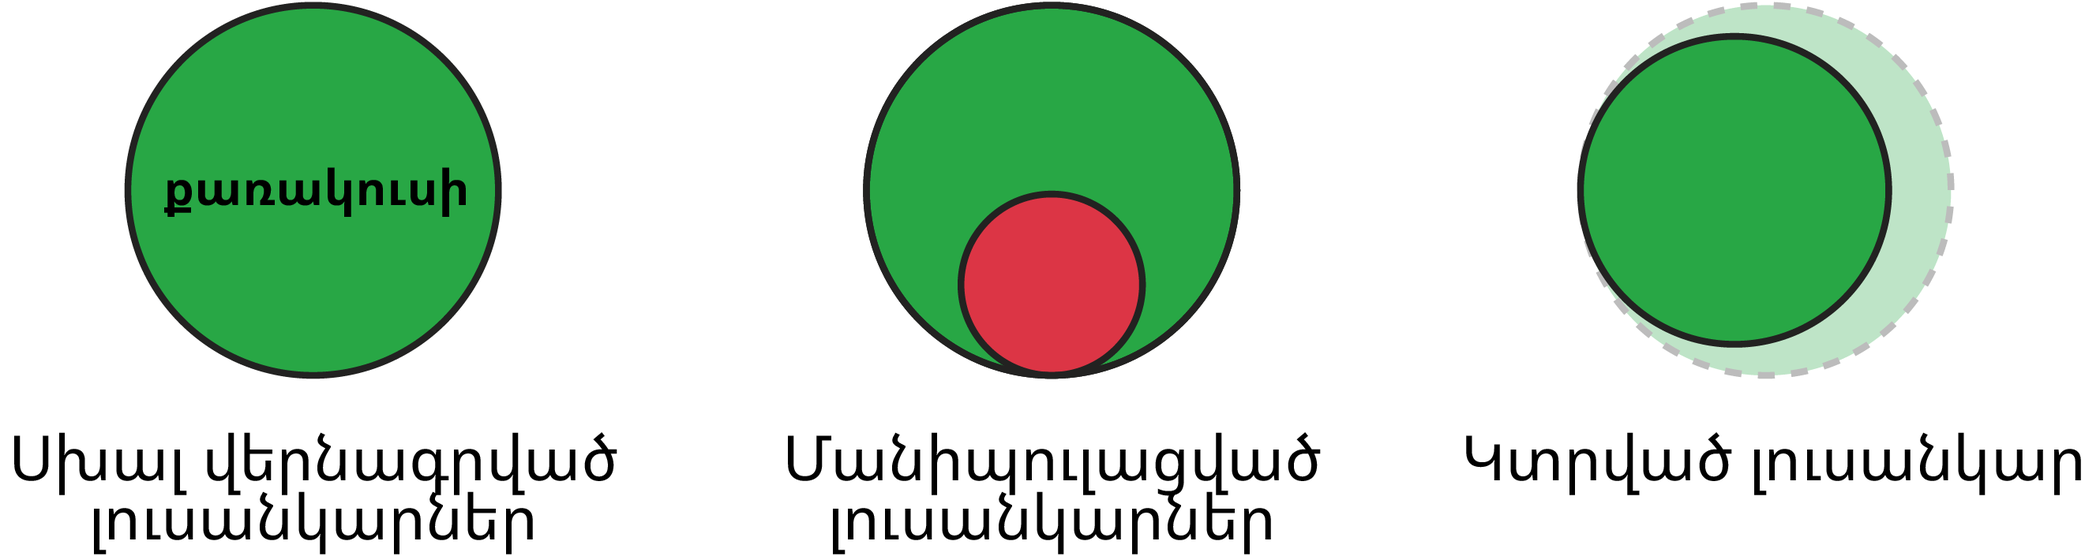
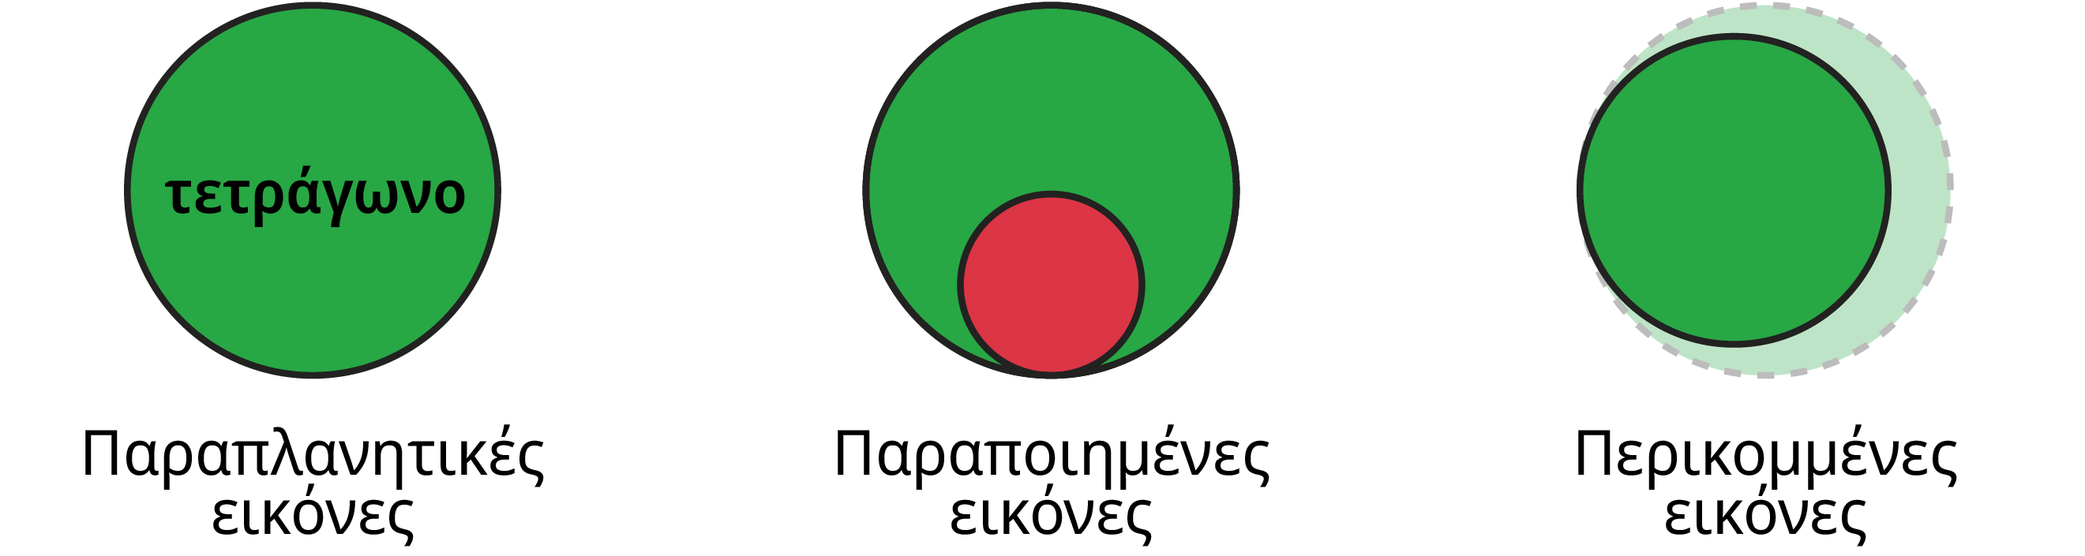
About ok

diff --git a/about.html b/about.html
@@ -2610,96 +2610,95 @@
               </br></br>
               Η παραπληροφόρηση (misinformation) συμβαίνει όταν διαμοιράζονται ψευδείς πληροφορίες εν αγνοία του χρήστη.
               Η αποπληροφόρηση (disinformation) αφορά ψευδείς πληροφορίες που δημιουργούνται και διαμοιράζονται επίτηδες, με στόχο τη χειραγώγηση των ανθρώπων.
-              Ο όρος «ψεύτικο» δεν αντικατοπτρίζει την πολυπλοκότητα αυτών των δύο όρων. 
+              Ο όρος «ψεύτικο» δεν αντικατοπτρίζει την πολυπλοκότητα αυτών των δύο όρων.
               Για να κατανοήσουμε τι συμβαίνει, πρέπει να αναλύσουμε τρεις τύπους παραπληροφόρησης και αποπληροφόρησης:
               </br></br>
               <img class="img img-fluid" src="./assets/IconeManipulation.png" />
-              <span style="font-family: var(--font-bold)">Սխալ վերնագրված լուսանկաներ</span> — իրական լուսանկարներ, որոնք սխալ են նկարագրում կոնտեքստը, դրա ծագումը կամ նշանակությունը:</br></br>
-              <span style="font-family: var(--font-bold)">Փոփոխված լուսանկարներ</span> — հիմնական տարրերը ճիշտ են, սակայն որոշ դետալներ ավելացված են կամ հեռացված՝ նկարի նշանակությունը փոխելու համար:</br></br>
-              <span style="font-family: var(--font-bold)">Կտրված լուսանկարներ</span> — երբ նկարը եզրերից կտված է, որի նպատակն է փոխել դրա սկզբնական նշանակությունը և իրական կոնտեքստը:</p>
+              <span style="font-family: var(--font-bold)">Παραπλανητικές εικόνες</span> — Πραγματικές αλλά παραπλανητικές εικόνες με κείμενα που περιγράφουν ψευδώς το πλαίσιο, την προέλευση ή το νόημά τους.</br></br>
+              <span style="font-family: var(--font-bold)">Παραποιημένες εικόνες</span> — Τα πρωταρχικά στοιχεία είναι αληθή, αλλά έχουν προστεθεί ή διαγραφεί ορισμένες λεπτομέρειες προκειμένου να αλλάξει το νόημα μιας εικόνας.</br></br>
+              <span style="font-family: var(--font-bold)">Περικομμένες εικόνες</span> — Εικόνες που έχουν περικοπεί για να αλλάξουν το αρχικό τους νόημα και το πραγματικό τους πλαίσιο.</p>
 
-            <h1 id="maintopics" class="card-title">ԳԼԽԱՎՈՐ ԹԵՄԱՆԵՐ</h1>
-            <h2 class="subtitle">Ինչպե՞ս ենք մենք ընկալում վիզուալ տեղեկատվությունը համացանցում</h2>
+            <h1 id="maintopics" class="card-title">ΚΥΡΙΑ ΘΕΜΑΤΑ</h1>
+            <h2 class="subtitle">Πώς αντιλαμβανόμαστε τις διαδικτυακές οπτικές πληροφορίες;</h2>
             <p class="card-text"><img class="img img-fluid topicsmall" src="./assets/fonteverificata.gif" />
             </br>
-              Արդյոք մենք հավատում ենք համացանցում տարածված տեղեկատվությանը, թե ոչ՝ մասամբ կախված է նրանից, թե ինչպես ենք մենք այն ընկալում: Ժամանակ և ջանքեր խնայելու համար մենք մշակում ենք փաստերը սոցիալական բանալիների հիման վրա: Հեղինակությունը, սպասելիքները, ով է տարածել հրապարակումը և որքան հավանումներ այն ունի, ազդում են այն բանի վրա, թե ինչպես ենք մենք գնահատում տեղեկատվությունը:
+              Το αν πιστεύουμε ή όχι τις πληροφορίες που συναντάμε στο διαδίκτυο εξαρτάται εν μέρει από την δική μας οπτική γωνία. Προκειμένου να εξοικονομήσουμε χρόνο και προσπάθεια, επεξεργαζόμαστε γεγονότα με βάση τις κοινωνικές ενδείξεις. Πράγματα όπως η φήμη, οι προσδοκίες, το ποιος μοιράστηκε μια ανάρτηση και ο αριθμός των likes που έχει, όλα επηρεάζουν τον τρόπο με τον οποίο αξιολογούμε τις πληροφορίες.
             </br>
               <img class="img img-fluid topicbig" src="./assets/intermediares.gif" />
             </br>
-              Ով և որտեղ է հրապարակել տեղեկատությունը. սրանք այն առանցքային գործոններն են, որոնք ազդում են բովանդակության նկատմամբ վստահության վրա: Մարդիկ հակված են մտածել, որ լրատվական կազմակերպությունները ավելի մեծ վստահություն են վայելում, քան մարդիկ, որոնք հրապարակում են այդ տեղեկատվությունը սոցցանցերում: Բացի այդ, մենք հակված ենք հավատալու տեղեկատվությանը, եթե դրան ուրիշներն էլ են հավատացել:
+              Το ποιος δημοσίευσε τις πληροφορίες, και το πού, είναι και οι δύο βασικοί παράγοντες που επηρεάζουν το αν το περιεχόμενο μπορεί να είναι αξιόπιστο. Για παράδειγμα, οι άνθρωποι τείνουν να υποθέτουν ότι οι ειδησεογραφικοί οργανισμοί είναι πιο αξιόπιστοι από τα μεμονωμένα άτομα που μοιράζονται πράγματα στα μέσα κοινωνικής δικτύωσης. Επιπλέον, οι άνθρωποι τείνουν να πιστεύουν τις πληροφορίες αν το πιστεύουν και άλλοι.
             </br>
               <img class="img img-fluid topicsmall" src="./assets/fomo.gif" />
             </br>
-              Բաց թողնված շահի ախտանիշը <span style="font-family: var(--font-regularD)">(FOMO)</span> և այսպես կոչված «հաղթողի էֆեկտը» կարող են մարդկանց ստիպել մտածել. «Եթե մյուսներին դա դուր է գալիս, պետք է որ ինձ էլ դուր գա»: Դա կարող է հանգեցնել նրան, որ մարդիկ կկիսվեն տեղեկատվությամբ՝ ուշադրություն չդարձնելով դրա բովանդակության և այն բանի վրա, թե արդյոք կարելի է դրան վստահել:
+              Ο «φόβος για τα γεγονότα που χάνω» (Fear of missing out) και το λεγόμενο «φαινόμενο bandwagon» μπορεί να κάνει τους ανθρώπους να σκεφτούν, «Αν αρέσει σε άλλους ανθρώπους, τότε θα πρέπει να αρέσει και σε εμένα». Αυτό μπορεί να οδηγήσει τους ανθρώπους να μοιράζονται πληροφορίες χωρίς να δίνουν προσοχή στο περί τίνος πρόκειται ή στο κατά πόσον μπορούν να εμπιστευτούν.
             </br>
               <img class="img img-fluid topic" src="./assets/labirinto.gif" />
             </br>
-              «Թվային մեդիագրագիտությունը» նշանակում է ցանցում տեղեկատվության առանձնահատկությունները հասկանալու կարողություն, օրինակ, ով է այն ստեղծել, և ով է այն տարածում, միաժամանակ, օգտագործել այդ գիտելիքները՝ որոշելու՝ արդյոք արժե դրան հավատալ: Թվային մեդիայի ոլորտում գրագիտության ասպեկտներից է նաև այն, թե որքանով եք կարողանում տարբերել խմբագրված և փոփոխությունների ենթարկված լուսանկարները:
+              "Ψηφιακή παιδεία στα μέσα" σημαίνει να είναι κανείς σε θέση να αναγνωρίζει τα χαρακτηριστικά των διαδικτυακών πληροφοριών, όπως ποιος τις δημιούργησε και από ποιον μποράζονται, και να χρησιμοποιεί αυτή τη γνώση για να αποφασίζει αν οι πληροφορίες είναι αξιόπιστες. Η κατανόηση του τρόπου επεξεργασίας ψηφιακών φωτογραφιών και βίντεο αποτελεί επίσης μια πτυχή της «ψηφιακής παιδείας στα μέσα».
             </br>
               <img class="img img-fluid topicsmall" src="./assets/bias.gif" /></br>
-              Տարբեր հարցերի վերաբերյալ մեր վերաբերմունքը նույնպես դեր ունի: Մարդիկ, ամենայն հավանականությամբ, հավատում են, որ տեղեկատվությունը ճշմարիտ է, եթե այն հաստատում է այն, ինչ նրանք արդեն հավատում են, հատկապես քաղաքականության կամ ընթացիկ գործերի համատեքստում:
+              Η στάση μας για διάφορα θέματα έχει επίσης σημασία. Οι άνθρωποι είναι πιο πιθανό να πιστεύουν ότι οι πληροφορίες είναι αληθινές, εάν οι πληροφορίες επιβεβαιώνουν αυτό που ήδη πιστεύουν, ειδικά στο πλαίσιο της πολιτικής ή θεμάτων που σχετίζονται με την επικαιρότητα.
             </p>
 
-            <h1 id="goal" class="card-title">ՀԻՄՆԱԿԱՆ ՆՊԱՏԱԿԸ</h1>
-            <h2 class="subtitle">Ինչպես նվազեցնել վիզուալ խաբկանքի պոտենցիալ վնասը</h2>
+            <h1 id="goal" class="card-title">ΠΟΙΟΣ ΕΙΝΑΙ Ο ΣΤΟΧΟΣ</h1>
+            <h2 class="subtitle">Πώς να μειώσετε την πιθανή ζημιά από τις οπτικές φάρσες</h2>
             <p class="card-text">
-              «Կրկնակի ստուգում» խաղի գլխավոր խնդիրն է մարդկանց ցույց տալ, թե որքան բարդ է ճանաչել՝ արդյոք լուսանկարը վստահության արժանի է, թե ոչ: Բացի այդ, այդ նախագիծը ցույց է տալիս, թե ինչու յուրաքանչյուր լուսանկար պետք է նայել բովանդակության և կոնտեքստի տեսանկյունից: Եթե մարդիկ ցանցում անուշադիր են, նրանք կարող են տարածել կեղծ տեղեկատվություն և ապատեղեկատվություն՝ անգամ անկախ իրենց ցանկությունից:
+              Ο κύριος σκοπός του κουίζ «διπλού ελέγχου» είναι να δείξει στους ανθρώπους πόσο δύσκολο είναι να αναγνωρίσουν αν μια εικόνα είναι αξιόπιστη ή όχι. Επιπλέον, αυτό το έργο δείχνει γιατί κάθε εικόνα πρέπει να εξετάζεται ως προς το περιεχόμενο της και το πλαίσιο της. Εάν οι άνθρωποι δεν δώσουν προσοχή στο διαδίκτυο, θα μπορούσαν εν αγνοία τους να διαδώσουν την παραπληροφόρηση (misinformation) και την αποπληροφόρηση (disinformation).
             </br></br>
-              Մենք բոլորս կարևոր դեր են խաղում վիզուալ տեղեկատվության համակարգում: Ամեն անգամ, երբ մենք պասսիվ ընդունում ենք տեղեկատվությունը, օրինակ, կիսվում ենք ինչ-որ հրապարակմամբ կամ տեսանյութուվ՝ չստուգելով այն կամ կասկածի տակ չդնելով, մենք մեծ հավանականությամբ կարող ենք տարածել այնպիսի կոնտենտ, որը չի համապատասխանում իրականությանը կամ մոլորության մեջ է գցում:
+              Όλοι διαδραματίζουμε κρίσιμο ρόλο στο σύστημα οπτικής πληροφόρησης. Κάθε φορά που αποδεχόμαστε παθητικά πληροφορίες —για παράδειγμα κοινοποιώντας μια ανάρτηση, εικόνα ή βίντεο χωρίς να την ελέγξουμε ή να την αμφισβητήσουμε— διατρέχουμε τον κίνδυνο να μεταδώσουμε περιεχόμενο που είναι αναληθές ή παραπλανητικό.
             </br></br>
-              Մեզնից յուրաքանչյուրը պարտավոր է ստուգել այն, ինչ տեսնում է համացանցում: «Կրկնակի ստուգում» խաղը ենթադրում է, որ կրթության մեջ ներդրում կատարելը լավագույն միջոցն է թվային մեդիագրագիտությունը բարձրացնելու և սխալ տեղեկատվության կամ ապատեղեկատվության հասցրած վնասը նվազեցնելու համար:
+              Καθένας από εμάς έχει την ευθύνη να ελέγχει τι βλέπει στο διαδίκτυο. Το παιχνίδι «διπλού ελέγχου» υποδηλώνει ότι η επένδυση στην εκπαίδευση είναι ο καλύτερος τρόπος για να καλλιεργηθεί περεταίρω η παιδεία σχετικά με τα ψηφιακά μέσα και να μειωθεί η ζημιά που προκαλείται από την παραπληροφόρηση (misinformation) κα την αποπληροφόρηση (disinformation).
             </br></br>
-              Այդ հաղորդագրությունը փոխանցելու համար կիրառվել է խաղաֆիկացում (խաղային մոտեցման կիրառում՝ ոչ խաղային խնդիրներում մարդկանց ներգրավելու համար): Անցնելով թեստը՝ մարդիկ կարող են ստուգել իրենց հմտությունները և խորանալ թեմայի մեջ:
+              Η παιχνιδοποίηση — χρησιμοποιώντας προσεγγίσεις τύπου παιχνιδιού για να ενθαρρύνει τους ανθρώπους να ασχοληθούν με ζητήματα που δεν αφορούν παιχνίδια — χρησιμοποιείται εδώ για τη μετάδοση αυτού του μηνύματος. Παίρνοντας μέρος στο κουίζ, οι άνθρωποι μπορούν να δοκιμάσουν τις ικανότητές τους και να κατανοήσουν ενεργά την πολυπλοκότητα του θέματος.
             </p>
 
-            <h1 id="starterpack" class="card-title">ՍԿՍՆԱԿՆԵՐԻ ՀԱՄԱՐ</h1>
-            <h2 class="subtitle">Օգտակար գործիքներ՝ վիզուալ խաբկանքի դեմ պայքարելու համար</h2>
-            <h2 class="subtitlemiddle">Տվյալներ</h2>
+            <h1 id="starterpack" class="card-title">ΣΥΣΚΕΥΑΣΙΑ ΕΚΚΙΝΗΣΗΣ</h1>
+            <h2 class="subtitle">Χρήσιμα εργαλεία για την αντιμετώπιση οπτικών φαρσών (απατών).</h2>
+            <h2 class="subtitlemiddle">Δεδομένα</h2>
             <p class="card-text">
-              Վիզուալ սխալ տեղեկատվությունը և ապատեղեկատվությունը համացանցում զարգանում են սոցիալական ցանցերին զուգընթաց:
-              Այժմ շատ երիտասարդներ և մեծահասակներ այդ ալիքներն օգտագործում են որպես տեղեկատվության միակ աղբյուր, ինչը նպաստում է սխալ տեղեկատվության և ապատեղեկատվության տարածմանը:
-              Մշակման առաջին փուլում մենք ուսումնասիրել են՝ ինչ հարթակներ են առավել տարածված աշխարհի տարբեր մասերում:
-              Եթե դուք ցանկանում եք ավելին իմանալ աշխարհի ամենաազդեցիկ սոցցանցերի մասին, մուտք գործեք մեր կայք.
+              Η διαδικτυακή οπτική παραπληροφόρηση (misinformation) και αποπληροφόρηση (disinformation) έχει αναπτυχθεί παράλληλα με τα μέσα κοινωνικής δικτύωσης.
+              Σήμερα, πολλοί νέοι και ενήλικες χρησιμοποιούν αυτά τα κανάλια ως μοναδική πηγή ειδήσεων, γεγονός που βοηθά στη διάδοση της παραπληροφόρησης και της αποπληροφόρησης.
+              Κατά την πρώτη φάση της διαδικασίας σχεδιασμού, διερευνήσαμε ποιες πλατφόρμες χρησιμοποιούνται περισσότερο σε διάφορα μέρη του κόσμου.
+              Αν θέλετε να μάθετε περισσότερα για τα κοινωνικά δίκτυα με τη μεγαλύτερη επιρροή σε όλο τον κόσμο, επισκεφτείτε τον ιστότοπό μας:
               </br></br>
-              <a href="https://densitydesign.github.io/teaching-dd15/course-results/es01/group01/">Սոցիալական ցանցերը՝ ըստ մշակութային շրջանների</a>
+              <a href="https://densitydesign.github.io/teaching-dd15/course-results/es01/group01/">Κοινωνικά δίκτυα ανά πολιτιστική περιοχή</a>
               <img class="img img-fluid infografica" src="./assets/Infografica_Spilli.jpg" /></br></br>
-              Քաղաքականության և ընթացիկ իրադարձությունների մասին վիզուալ տեղեկատվությունը ավելի շուտ կանխակալության կասկած կառաջացնի.
-              սա այն դեպքն է, երբ մենք ավելի մեծ պատրաստակամությամբ ենք հավատում մի բանի, որը հաստատում է մեր կարծիքը:
-              Երբ խոսքը վերաբերում է համաշխարհային խոշոր իրադարձությունների, որոնց մասին շատերին է հայտնի, վիզուալ ապատեղեկատվությունն ավելի լայնորեն է տարածվում:
-              Դա ավելի լավ հասկանալու համար ծանոթացեք մեր հաջորդ նախագծին.
+              Οι οπτικές πληροφορίες σχετικά με την πολιτική επικαιρότητα  είναι πιο πιθανό να πυροδοτήσουν προκατάληψη επιβεβαίωσης - όταν δηλαδή πιστεύουμε κάτι πιο εύκολα επειδή υποστηρίζει τη γνώμη μας.
+              Όταν πρόκειται για μεγάλα, παγκόσμια γεγονότα για τα οποία πολλοί άνθρωποι γνωρίζουν, η οπτική παραπληροφόρηση γίνεται όλο και πιο διαδεδομένη.
+              Για να γίνει καλύτερα κατανοητό, δείτε το έργο μας για τις προεπισκοπήσεις:
               </br></br>
-              <a href="https://densitydesign.github.io/teaching-dd15/course-results/es02/group01/">Սեփական աչքերը լավագույն վկան են</a>
+              <a href="https://densitydesign.github.io/teaching-dd15/course-results/es02/group01/">Το να βλέπεις είναι να πιστεύεις</a>
               <img class="img img-fluid infografica" src="./assets/Cerchi_Totale.jpg" /></br>
-              <span class="dida"><span style="font-family: var(--font-regularD)">Google</span>-ում գտեք ֆեյք նկարներ վերջին <span style="font-family: var(--font-regularD)">6</span> տարիների իրադարձությունների վերաբերյալ և տեսեք՝ արդյոք դրանք հերքվել են և քանի անգամ: </span></p>
+              <span class="dida"> Αναζητήστε στο Google και δείτε αν μπορείτε να δείτε ποιες ψεύτικες εικόνες που σχετίζονται με γεγονότα των τελευταίων έξι ετών έχουν διαψευστεί και πόσες φορές. </span></p>
 
-            <h2 class="subtitlemiddle">Հաճախ տրվող հարցեր և խորհուրդներ</h2>
+            <h2 class="subtitlemiddle">Συχνές ερωτήσεις και συμβουλές</h2>
 
             <p class="card-text">
-              <span style="font-family: var(--font-bold)">— Ի՞նչ գործիք օգտագործել նկարի սկզբնաղբյուրը ստուգելու համար:</span></br>
-              <a href="https://support.google.com/websearch/answer/1325808?co=GENIE.Platform%3DAndroid&hl=en"><span style="font-family: var(--font-regularD)">Reverse Image Search</span></a> -
-              Նկարի հետադարձ որոնման գործիքը հնարավորություն է տալիս գտնել դրա հետ կապված կամ նման լուսանկարներ, ինչպես նաև վեբ կայքեր, որտեղ դրանք հրապարակվել են: Դուք կարող եք անցնել հղումներով և փնտրել սկզբնաղբյուրը:</br>
+              <span style="font-family: var(--font-bold)">— Ποιο είναι το πιο εύκολο εργαλείο για την επαλήθευση της αρχικής πηγής μιας εικόνας;</span></br>
+              Το εργαλείο <a href="https://support.google.com/websearch/answer/1325808?co=GENIE.Platform%3DAndroid&hl=en"><span style="font-family: var(--font-regularD)">Aντίστροφης Aναζήτησης εικόνων </span></a>
+              σάς επιτρέπει να χρησιμοποιήσετε μια εικόνα για να βρείτε σχετικές ή παρόμοιες εικόνες, και τους ιστότοπους όπου μπορούν να βρεθούν. Μπορείτε να ανοίξετε όλους τους πιθανούς συνδέσμους και να αναζητήσετε την αρχική πηγή.</br>
             </p></br>
 
             <p class="card-text">
-              <span style="font-family: var(--font-bold)">— Կա՞ այնպիսի կայք, որտեղ կարելի է գտնել վիզուալ սխալ տեղեկատվության և ապատեղեկատվության այլ օրինակներ:</span></br>
-              Այո՛, այս նախագծում առավել հաճախ օգտագործվում է <a href="https://www.snopes.com/"><span style="font-family: var(--font-regularD)">Snopes.com</span></a> կայքը, որն անկախ ռեսուրս է փաստերի ստուգման և հրապարակման համար:</br>
+              <span style="font-family: var(--font-bold)">— Υπάρχει κάποιος ιστότοπος όπου μπορώ να βρω άλλα παραδείγματα σχετικά με την οπτική παραπληροφόρηση (misinformation) και αποπληροφόρηση (disinformation);</span></br>
+              Ναι, ο ιστότοπος που χρησιμοποιείται περισσότερο για αυτό το έργο είναι το <a href="https://www.snopes.com/"><span style="font-family: var(--font-regularD)">Snopes.com</span></a> , μια ανεξάρτητη δημοσίευση και πηγή ελέγχου των γεγονότων.</br>
             </p></br>
 
             <p class="card-text">
-              <span style="font-family: var(--font-bold)">— Որտե՞ղ կարող եմ իմանալ վիզուալ ապատեղեկատվության և ապատեղեկատվության տարբեր տեսակների մասին:</span></br>
-              Եթե դուք ցանկանում եք խորանալ այդ թեմայի մեջ, կարդացեք Քլեր Վարդլի «Ֆեյք լուրեր. բարդ է» <a href="https://firstdraftnews.org/latest/fake-news-complicated/"><span style="font-family: var(--font-regularD)">"Fake news. It’s complicated"</span></a>.
-              հոդվածը: Դրանում հեղինակը դասակարգում է ֆեյք կոնտենտը, բացատրում՝ ինչու է այն ստեղծվում և տարածվում: </br>
+              <span style="font-family: var(--font-bold)">— Πού μπορώ να μάθω για τα διάφορα είδη οπτικής παραπληροφόρησης (misinformation) και αποπληροφόρησης (disinformation);</span></br>
+              Αν θέλετε να μάθετε περισσότερα σχετικά με αυτό το θέμα, μπορείτε να διαβάσετε το άρθρο <a href="https://firstdraftnews.org/latest/fake-news-complicated/"><span style="font-family: var(--font-regularD)">"Fake news. It’s complicated"</span></a>
+              από την Claire Wardle. Αυτό το άρθρο είναι μια ανάλυση των τύπων ψευδούς περιεχομένου, γιατί δημιουργείται και πώς διαδίδεται.</br>
             </p></br>
 
             <p class="card-text">
-              <span style="font-family: var(--font-bold)">— Արդյո՞ք կատարվել է հետազոտություն՝ պարզելու, թե որքանով է մարդը ունակ ճանաչել վիզուալ սխալ տեղեկատվությունը և ապատեղեկատվությունը:</span></br>
-              Այո, այդպիսի հետազոտություն է Ցույխուա Շենի, Մոնա Կասրի, Վենցզին Պան Գրեյս Ա. Բասեթի, Յինինգ Մալոքի և Ջեյմս Ֆ. Օ’Բրայենի հեղինակած «Ֆեյք նկարներ. աղբյուրների, միջնորդների և թվային մեդիայի ճշգրտության ազդեցությունը համացանցում լուսանկարների արժանահավատության կոնտեքստային գնահատականի վրա»
+              <span style="font-family: var(--font-bold)">— Έχουν γίνει μελέτες σχετικά με την ικανότητα των ανθρώπων να αναγνωρίζουν την οπτική παραπληροφόρηση (misinformation) και την αποπληροφόρηση (disinformation);</span></br>
+              Ναι, ιδίως το έγγραφο που έγραψαν οι Cuihua Shen, Mona Kasra, Wenjing Pan Grace A. Bassett, Yining Malloch και James F O'Brien:
               <a href="https://journals.sagepub.com/doi/10.1177/1461444818799526 "><span style="font-family: var(--font-regularD)">"Fake images: The effects of source, intermediary, and digital media literacy on contextual assessment of image credibility online"</span></a>.</br>
             </p></br>
 
             <p class="card-text">
-              <span style="font-family: var(--font-bold)">— Որտե՞ղ կարող եմ գտնել այս նախագծում օգտագործված նկարների աղբյուրները:</span></br>
-              <a href="./assets/Doublecheck_ImageSources.xlsx" download>Ներբեռնեք</a> այս տվյալների բազան՝ ստանալու համար այն հոդվածների ցանկը, որոնցից մենք վերցրել ենք նկարները:</br>
+              <span style="font-family: var(--font-bold)">— Πού μπορώ να βρω τις πηγές των εικόνων που χρησιμοποιούνται σε αυτό το έργο;</span></br>
+              <a href="./assets/Doublecheck_ImageSources.xlsx" download>Κατεβάστε</a> αυτό το σύνολο δεδομένων για να λάβετε μια λίστα με τα άρθρα από τα οποία λάβαμε τις εικόνες.</br>
             </p></br>
 
             <!-- Footer   -->
@@ -2713,7 +2712,7 @@
               </div>
               <div class="col-lg-2">
                 <p class="foot">
-                  <span style="font-family: var(--font-bold)">Նախագծի հեղինակ</span></br></br>
+                  <span style="font-family: var(--font-bold)">Έργο από</span></br></br>
                   <span style="font-family: var(--font-regularD)">
                     Della Pepa Gabriele </br>
                     Febres Medina Andrea</br>
@@ -2726,7 +2725,7 @@
               </div>
               <div class="col-lg-2">
                 <p class="foot">
-                  <span style="font-family: var(--font-bold)">Ֆակուլտետ</span></br></br>
+                  <span style="font-family: var(--font-bold)">Σχολή</span></br></br>
                   <span style="font-family: var(--font-regularD)">
                     Michele Mauri </br>
                     Ángeles Briones</br>
@@ -2738,7 +2737,7 @@
               </div>
               <div class="col-lg-2">
                 <p class="foot">
-                  <span style="font-family: var(--font-bold)">Ուսուցման օգնական</span></br></br>
+                  <span style="font-family: var(--font-bold)">Βοηθοί Διδασκαλίας</span></br></br>
                   <span style="font-family: var(--font-regularD)">
                     Andrea Benedetti </br>
                     Lea Mara Fabiano</br>
